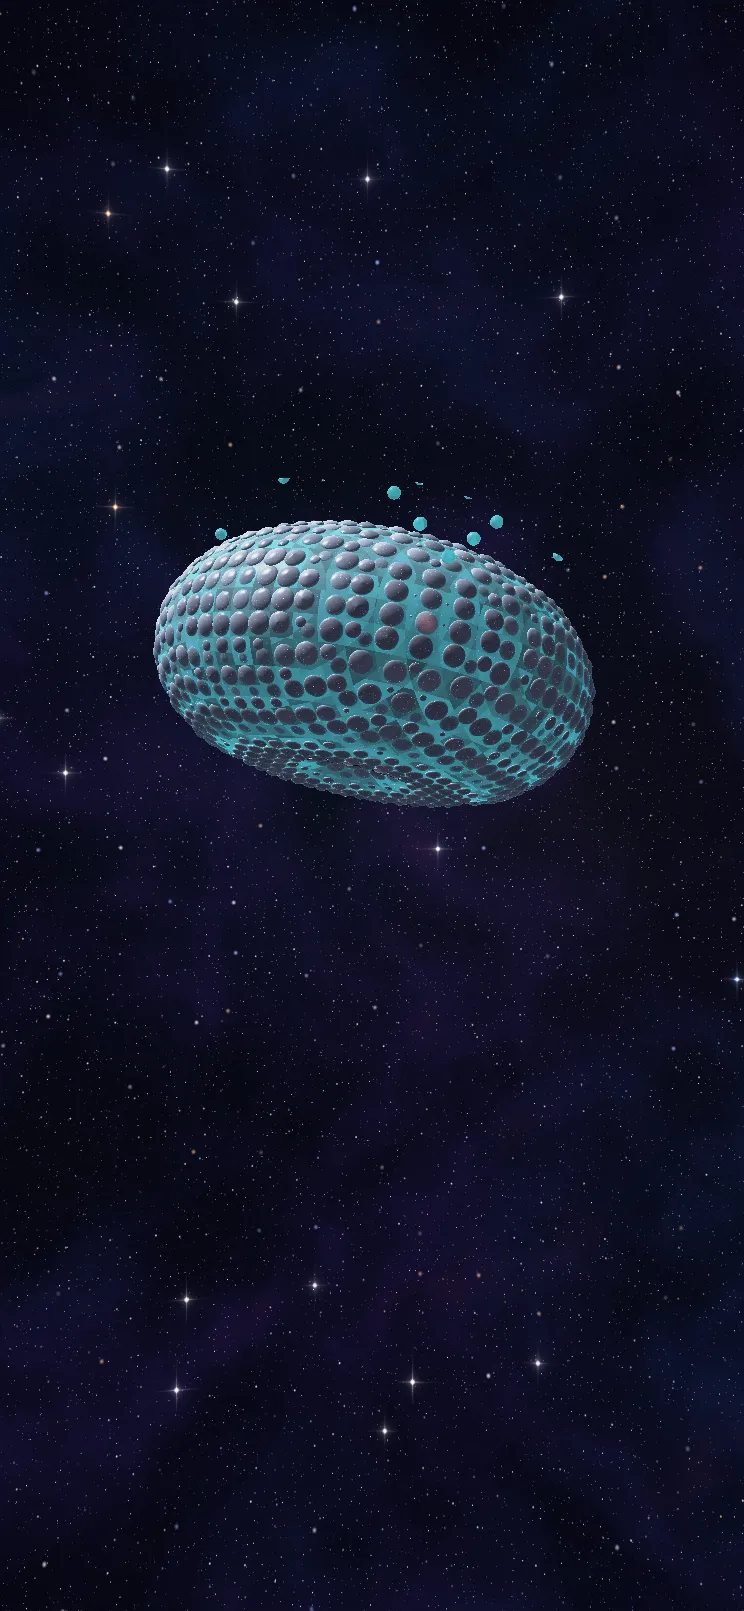
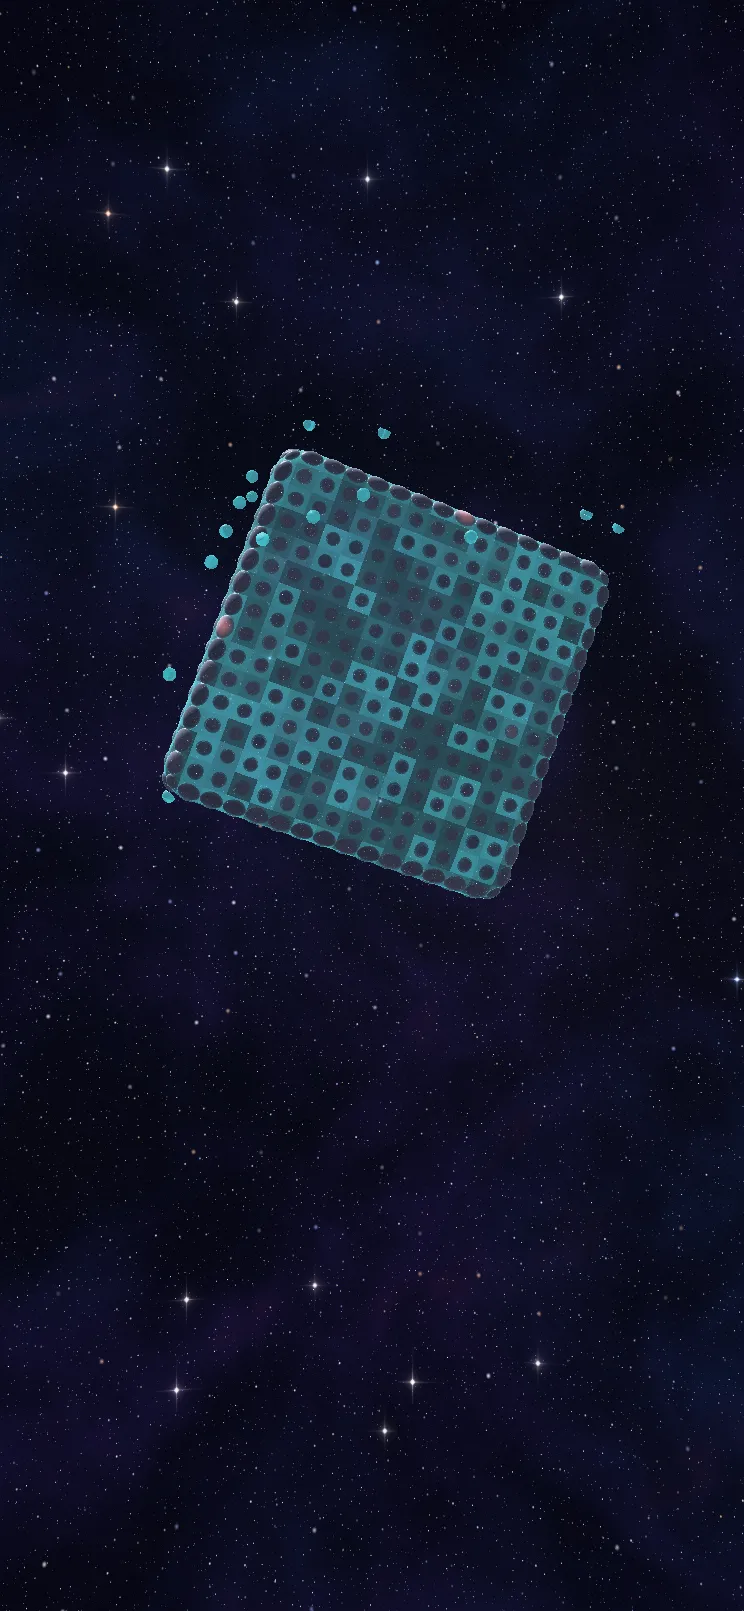
💄 style: Make Programmable Matter change shape faster

Changed region(s): [[0.1855, 0.2793, 0.8347, 0.5587]]

diff --git a/src/scene/scenes/programmable-matter/index.tsx b/src/scene/scenes/programmable-matter/index.tsx
@@ -1,9 +1,9 @@
 /**
  * Programmable Matter (D-154): our own illustration of matter made of millions of tiny units that
  * arrange themselves into forms on command (Carnegie Mellon's "catoms"), an idea inside the
- * Starbase. A body of small silver cells, light glowing cyan in the seams between them, slowly
- * reshapes itself: a sphere, then a ring, then a rounded block, and back, each change a few
- * seconds long; loose cells drift just off its surface on their way to new places. Ray-marched in
+ * Starbase. A body of small silver cells, light glowing cyan in the seams between them,
+ * reshapes itself: a sphere, then a ring, then a rounded block, and back, every six seconds, each change
+ * about three seconds long, as it turns; loose cells drift just off its surface on their way to new places. Ray-marched in
  * one full-screen shader: one draw call, no particles. Its own colour family: silver, cyan and
  * coral.
  */
@@ -26,7 +26,7 @@ const vec3 SILVER = vec3(0.78, 0.82, 0.88);
 const vec3 CYAN = vec3(0.3, 0.95, 1.0);
 const vec3 CORAL = vec3(1.0, 0.5, 0.42);
 const float CELL = 0.085;   // one unit's size, in radii
-const float CYCLE = 14.0;   // seconds per form
+const float CYCLE = 6.0;    // seconds per form (D-192: was 14)
 
 float sphereF(vec3 p){ return length(p) - 0.85; }
 float ringF(vec3 p){ vec2 q = vec2(length(p.xz) - 0.68, p.y); return length(q) - 0.3; }
@@ -36,7 +36,7 @@ float blockF(vec3 p){ vec3 q = abs(p) - vec3(0.55); return length(max(q, 0.0)) +
 float form(vec3 p){
   float k = uTime / CYCLE;
   float i = mod(floor(k), 3.0);
-  float f = smoothstep(0.7, 1.0, fract(k));
+  float f = smoothstep(0.55, 1.0, fract(k));
   float a = i < 0.5 ? sphereF(p) : (i < 1.5 ? ringF(p) : blockF(p));
   float b = i < 0.5 ? ringF(p) : (i < 1.5 ? blockF(p) : sphereF(p));
   return mix(a, b, f);
@@ -82,7 +82,7 @@ void main(){
   col += CYAN * 0.05 * exp(-r * 1.2) + CORAL * 0.03 * exp(-length(u - vec2(0.9, -0.6)) * 1.5);
 
   // the camera: turned slowly and by the drag
-  mat3 view = turnX(0.35 - uPitch) * turnY(uYaw + t * 0.05);
+  mat3 view = turnX(0.35 - uPitch) * turnY(uYaw + t * 0.12);
   vec3 ro = view * vec3(0.0, 0.0, 4.0);
   vec3 rd = view * normalize(vec3(u, -4.0));
   vec3 L = normalize(vec3(-0.5, 0.7, 0.6));
